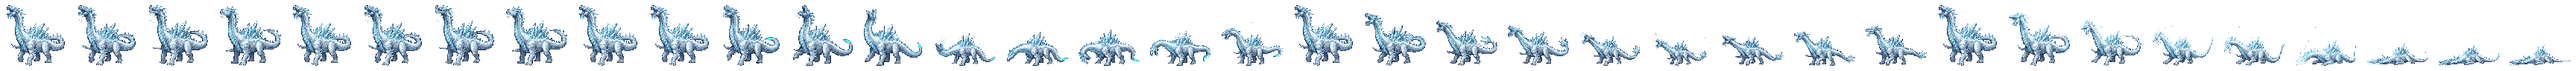
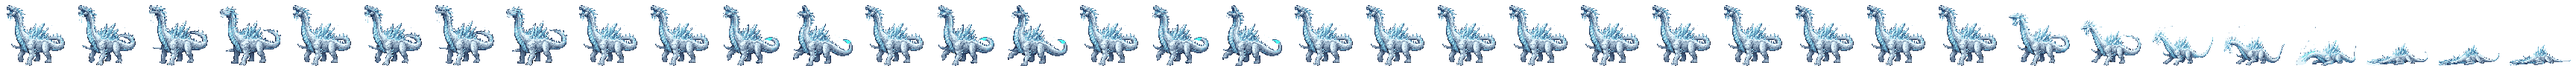
fix(combat): オルドの攻撃・被弾もズーム枠を除去
待機と同じ安定フレーム循環を attack／hurt に適用し、拡大縮小パルスを止める。

Changed region(s): [[0.5312, 0.0938, 0.75, 0.9062], [0.3125, 0.0938, 0.5, 0.9375]]

diff --git a/tools/stabilize_enemy_sheet_scale.py b/tools/stabilize_enemy_sheet_scale.py
@@ -1,17 +1,21 @@
 #!/usr/bin/env python3
-"""Stabilize enemy battle-sheet idle by dropping zoom-pulse frames.
+"""Stabilize enemy battle-sheet anims by dropping zoom-pulse frames.
 
-PixelLab ENM idle strips sometimes shrink the body toward the feet
-(looks like scale pulse in combat). Upscaling those cells fattens the
-silhouette; instead, replace unstable idle cells by cycling stable early
-frames (height within --max-dh of idle[0]).
+PixelLab ENM strips sometimes shrink the body toward the feet (looks like
+scale pulse). Upscaling fattens the silhouette; instead, replace unstable
+cells by cycling stable early frames (height within --max-dh of that
+anim's frame 0).
 
-Sheet layout: horizontal 96x96 cells, idle = frames 0..8.
+Sheet layout: horizontal 96x96 cells
+  idle   = 0..8
+  attack = 9..17
+  hurt   = 18..26
+  death  = 27..35  (left alone by default — intentional shrink)
 
 Usage:
-  python3 tools/stabilize_enemy_sheet_scale.py ENM_Oldrex --all-tiers
-  python3 tools/stabilize_enemy_sheet_scale.py ENM_WindRipper --all-tiers --max-dh 8
-  python3 tools/stabilize_enemy_sheet_scale.py ENM_Oldrex_Sheet.png --dry-run
+  python3 tools/stabilize_enemy_sheet_scale.py ENM_Oldrex --all-tiers --max-dh 2
+  python3 tools/stabilize_enemy_sheet_scale.py ENM_Oldrex --all-tiers --max-dh 2 --anims attack,hurt
+  python3 tools/stabilize_enemy_sheet_scale.py ENM_WindRipper --all-tiers --max-dh 10
 """
 
 from __future__ import annotations
@@ -23,9 +27,16 @@ from pathlib import Path
 from PIL import Image
 
 DEFAULT_CELL = 96
-DEFAULT_IDLE_COUNT = 9
+DEFAULT_BAND_LEN = 9
 DEFAULT_MAX_DH = 1
 BATTLE_DIR = Path(__file__).resolve().parents[1] / "assets" / "battle" / "enemies"
+
+ANIM_BANDS: dict[str, int] = {
+	"idle": 0,
+	"attack": 9,
+	"hurt": 18,
+	"death": 27,
+}
 
 
 def used_h(cell: Image.Image) -> int:
@@ -33,14 +44,55 @@ def used_h(cell: Image.Image) -> int:
 	return 0 if bb is None else bb[3] - bb[1]
 
 
+def stabilize_band(
+	cells: list[Image.Image],
+	*,
+	start: int,
+	count: int,
+	max_dh: int,
+	freeze: bool,
+	label: str,
+) -> int:
+	if start + count > len(cells):
+		print(f"  skip {label}: not enough cells", file=sys.stderr)
+		return 0
+	ref_h = used_h(cells[start])
+	if ref_h <= 0:
+		print(f"  skip {label}: empty frame 0", file=sys.stderr)
+		return 0
+	heights = [used_h(cells[start + i]) for i in range(count)]
+	if freeze:
+		stable = [0]
+	else:
+		stable = [i for i in range(count) if abs(heights[i] - ref_h) <= max_dh]
+		if not stable:
+			stable = [0]
+	print(
+		f"  {label}: ref_h={ref_h} max_dh={max_dh} freeze={freeze} "
+		f"h={heights} stable={stable}"
+	)
+	changed = 0
+	for i in range(count):
+		src = stable[i % len(stable)]
+		if i == src and not freeze:
+			continue
+		if freeze and i == 0:
+			continue
+		print(f"    {label}[{i}] <- {label}[{src}] (was h={heights[i]})")
+		cells[start + i] = cells[start + src].copy()
+		changed += 1
+	return changed
+
+
 def stabilize_sheet(
 	path: Path,
 	*,
 	cell: int,
-	idle_count: int,
+	band_len: int,
 	max_dh: int,
 	dry_run: bool,
-	freeze: bool = False,
+	freeze: bool,
+	anims: list[str],
 ) -> int:
 	im = Image.open(path).convert("RGBA")
 	w, h = im.size
@@ -48,43 +100,24 @@ def stabilize_sheet(
 		print(f"unexpected height {h} (want {cell}): {path}", file=sys.stderr)
 		return 1
 	n_cells = w // cell
-	if n_cells < idle_count:
-		print(f"too few cells ({n_cells}): {path}", file=sys.stderr)
-		return 1
-
 	cells = [im.crop((i * cell, 0, (i + 1) * cell, cell)) for i in range(n_cells)]
-	ref_h = used_h(cells[0])
-	if ref_h <= 0:
-		print(f"empty idle[0]: {path}", file=sys.stderr)
-		return 1
-
-	heights = [used_h(cells[i]) for i in range(idle_count)]
-	if freeze:
-		stable = [0]
-	else:
-		stable = [i for i in range(idle_count) if abs(heights[i] - ref_h) <= max_dh]
-		if not stable:
-			stable = [0]
-
-	print(
-		f"{path.name}: ref_h={ref_h} max_dh={max_dh} freeze={freeze} "
-		f"idle_h={heights} stable={stable}"
-	)
+	print(f"{path.name}: anims={anims}")
 	changed = 0
-	for i in range(idle_count):
-		src = stable[i % len(stable)]
-		if i == src and not freeze:
-			continue
-		if freeze and i == 0:
-			continue
-		print(f"  idle[{i}] <- idle[{src}] (was h={heights[i]})")
-		cells[i] = cells[src].copy()
-		changed += 1
-
+	for name in anims:
+		if name not in ANIM_BANDS:
+			print(f"  unknown anim {name}", file=sys.stderr)
+			return 1
+		changed += stabilize_band(
+			cells,
+			start=ANIM_BANDS[name],
+			count=band_len,
+			max_dh=max_dh,
+			freeze=freeze,
+			label=name,
+		)
 	if dry_run:
 		print(f"  would replace {changed} cells dry_run=True")
 		return 0
-
 	out = Image.new("RGBA", (w, h), (0, 0, 0, 0))
 	for i, c in enumerate(cells):
 		out.paste(c, (i * cell, 0))
@@ -94,7 +127,6 @@ def stabilize_sheet(
 
 
 def enemy_stem(basename: str) -> str:
-	"""ENM_Foo / ENM_Foo_Sheet / ENM_Foo_Hard_Sheet → ENM_Foo."""
 	stem = basename
 	if stem.endswith(".png"):
 		stem = stem[: -len(".png")]
@@ -127,30 +159,32 @@ def resolve_paths(arg: str, all_tiers: bool) -> list[Path]:
 
 def main() -> int:
 	ap = argparse.ArgumentParser(description=__doc__)
-	ap.add_argument(
-		"sheet",
-		help="Sheet basename or path (e.g. ENM_Oldrex_Sheet.png / ENM_WindRipper)",
-	)
-	ap.add_argument(
-		"--all-tiers",
-		action="store_true",
-		help="Also process Hard/Nightmare sheets for the same enemy stem",
-	)
+	ap.add_argument("sheet", help="Sheet basename or path (e.g. ENM_Oldrex)")
+	ap.add_argument("--all-tiers", action="store_true")
 	ap.add_argument("--cell", type=int, default=DEFAULT_CELL)
-	ap.add_argument("--idle-count", type=int, default=DEFAULT_IDLE_COUNT)
+	ap.add_argument("--band-len", type=int, default=DEFAULT_BAND_LEN)
 	ap.add_argument(
 		"--max-dh",
 		type=int,
 		default=DEFAULT_MAX_DH,
-		help="Keep idle frames whose body height is within this many px of idle[0]",
+		help="Keep frames whose body height is within this many px of that anim's frame 0",
+	)
+	ap.add_argument(
+		"--anims",
+		default="idle",
+		help="Comma list: idle,attack,hurt,death (default: idle)",
 	)
 	ap.add_argument(
 		"--freeze",
 		action="store_true",
-		help="Replace all idle cells with an exact copy of idle[0] (no residual breath)",
+		help="Replace all band cells with an exact copy of that band's frame 0",
 	)
 	ap.add_argument("--dry-run", action="store_true")
 	args = ap.parse_args()
+	anims = [a.strip() for a in str(args.anims).split(",") if a.strip()]
+	if not anims:
+		print("no anims", file=sys.stderr)
+		return 1
 	paths = resolve_paths(args.sheet, args.all_tiers)
 	if not paths:
 		print(f"no sheets found for {args.sheet}", file=sys.stderr)
@@ -160,10 +194,11 @@ def main() -> int:
 		rc |= stabilize_sheet(
 			path,
 			cell=args.cell,
-			idle_count=args.idle_count,
+			band_len=args.band_len,
 			max_dh=0 if args.freeze else args.max_dh,
 			dry_run=args.dry_run,
 			freeze=args.freeze,
+			anims=anims,
 		)
 	return rc
 

diff --git a/docs/specs/implementation/14_Presentation_Pitfalls.md b/docs/specs/implementation/14_Presentation_Pitfalls.md
@@ -94,7 +94,7 @@
 | 状態異常アイコンが敵HPバー裏／ネーム帯と同帯 | `COMBAT_OVERLAY_Z+3`＋ネーム（エリートはバッジ）上端より上 |
 | ボスの激昂など頭上アイコンが付かない | `_update_status_icons` がボス時に行を全非表示にしていた | ボスも `_boss_sprite` 上に表示。スタック上端は `_enemy_nameplate.offset_top` |
 | ボス／エリートを雑魚と同寸、またはボス過大で Header 貫通 | `BOSS_BODY_*`／`ENEMY_BODY_SCALE_MULT`／`FROSTRIDGE_SOLO_DISPLAY_SCALE`。群れは体数スケール |
-| 敵待機が拡大縮小パルス（シート内の体高さ揺れ） | PixelLab が足元固定で体を縮める。**`--freeze` は不自然**。import 未更新でも旧ズーム残存 | `stabilize_enemy_sheet_scale.py --max-dh` で安定セル循環（オルド≈2／ストーム≈10）。差替後 `--import`。Hard/Nightmare 同処理 |
+| 敵待機が拡大縮小パルス（シート内の体高さ揺れ） | PixelLab が足元固定で体を縮める。**`--freeze` は不自然**。attack/hurt も同症状。import 未更新でも旧ズーム残存 | `stabilize_enemy_sheet_scale.py --anims idle,attack,hurt --max-dh`。差替後 `--import`。death は意図的縮小のため既定除外 |
 | 雑魚が全部同じ殴り合いに見える | スキル／軽減だけだと役割が薄い | `EnemyData.trait_id`＋`CombatEnemyTraits`（Decision 118）。トリッキーと別枠 |
 | ボス呼び出し敵が BossSprite に隠れる／slot0 二重表示 | BossSprite 据置＋連れは `BossSummonLayout` で左右手前。slot0 群れ非表示。HP/状態も連れ分表示 |
 | 連れネーム／技名がボス胴体に貼る | 立ち位置オフセット拡大＋`overlay_nudge_px` で外側・上へクリアランス |

diff --git a/docs/project/CurrentState.md b/docs/project/CurrentState.md
@@ -4,6 +4,7 @@
 
 ## Last Update
 
+2026-08-09（**オルド攻撃／被弾のズーム抑止／統合＋main**: attack・hurtも安定フレーム循環。要実機／要iOS）
 2026-08-09（**オルド／ストーム待機を自然idleへ／統合＋main**: ズーム枠除去＋安定フレーム循環。要実機／要iOS）
 2026-08-09（**オルド待機ズーム再修正／統合＋main**: idle完全静止＋Godot再インポート。要実機／要iOS）
 2026-08-09（**雑魚特性GO／統合＋main**: 10種パッシブを本編雑魚＋放浪へ。要実機／要iOS）
